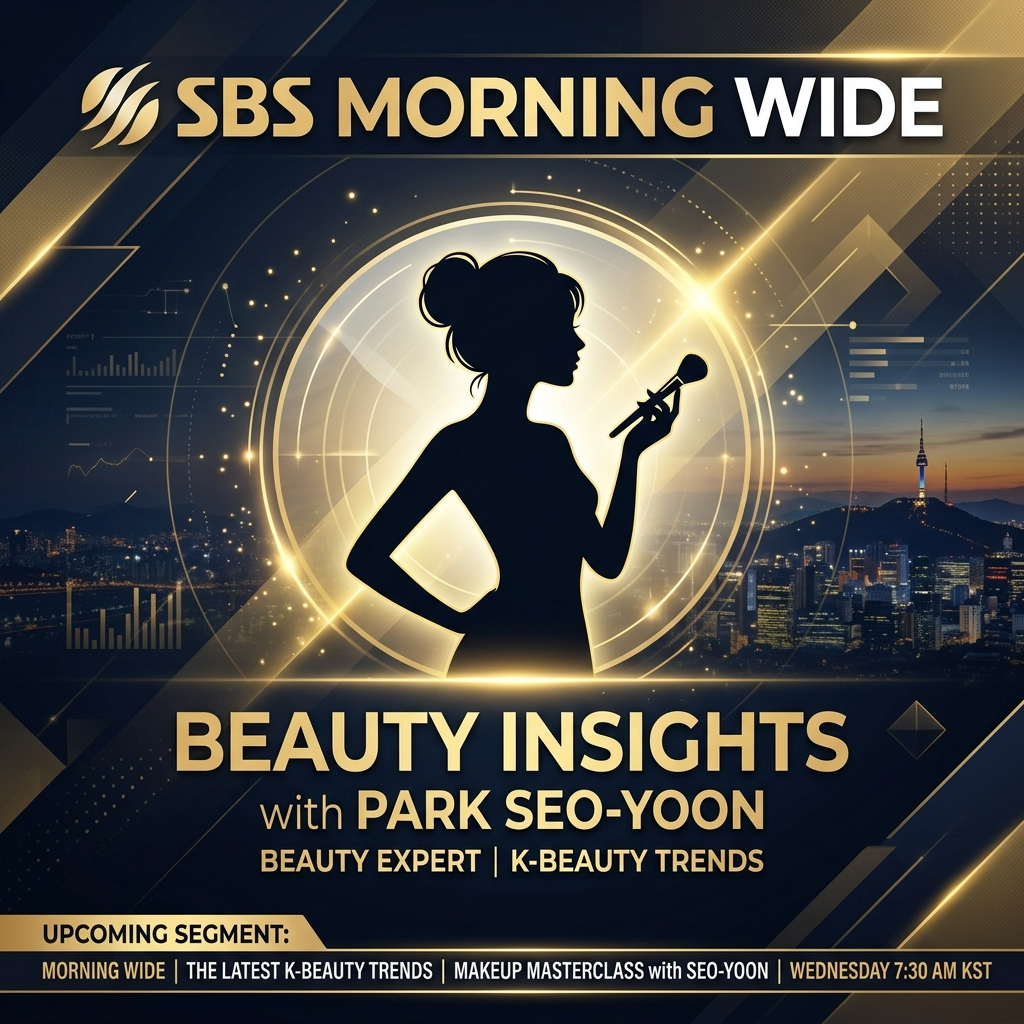
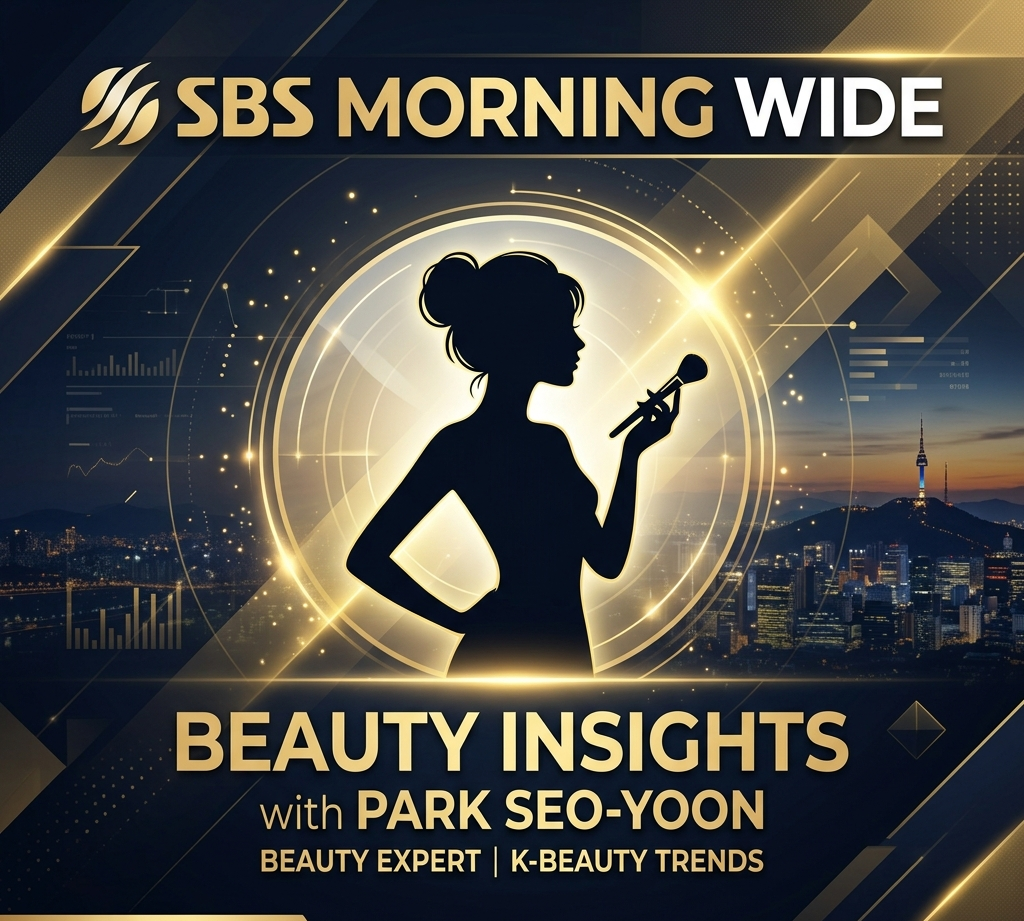
feat(ceo): update activities content, support multiple urls, and crop sbs_morning image

diff --git a/src/components/CeoResumeClient.tsx b/src/components/CeoResumeClient.tsx
@@ -53,7 +53,7 @@ export default function CeoResumeClient({ dict }: { dict: any }) {
                           <span className="material-symbols-outlined text-xl">smart_display</span>
                           {sns.title}
                         </h4>
-                        <p className="font-body-sm text-sm text-on-surface-variant">{sns.desc}</p>
+                        <p className="font-body-sm text-sm text-on-surface-variant whitespace-pre-wrap leading-relaxed">{sns.desc}</p>
                         {sns.url && (
                           <div className="mt-4 inline-flex items-center gap-1.5 px-3 py-1.5 rounded-full border border-primary/30 bg-primary/5 text-primary text-xs font-bold group-hover:bg-primary group-hover:text-background transition-colors w-fit">
                             <span className="material-symbols-outlined text-[14px]">ads_click</span>
@@ -104,6 +104,16 @@ export default function CeoResumeClient({ dict }: { dict: any }) {
                         Click to View
                       </div>
                     )}
+                    {item.urls && (
+                      <div className="mt-4 flex flex-col gap-2 w-full z-10 relative">
+                        {item.urls.map((u: any, i: number) => (
+                          <a key={i} href={u.link} target="_blank" rel="noopener noreferrer" className="inline-flex items-center gap-1.5 px-3 py-2 rounded-lg border border-primary/20 bg-primary/5 text-primary text-xs hover:bg-primary hover:text-background transition-colors w-fit">
+                            <span className="material-symbols-outlined text-[14px]">ads_click</span>
+                            {u.label}
+                          </a>
+                        ))}
+                      </div>
+                    )}
                   </>
                 );
 
@@ -127,9 +137,16 @@ export default function CeoResumeClient({ dict }: { dict: any }) {
                 ) : (
                   <div 
                     key={idx} 
-                    className="glass-panel glow-box p-5 rounded-xl border border-primary/5 group"
+                    className="flex flex-col sm:flex-row items-center sm:items-stretch glass-panel glow-box p-0 rounded-xl border border-primary/5 group overflow-hidden"
                   >
-                    {content}
+                    {item.image && (
+                      <div className="w-full sm:w-1/3 aspect-video sm:aspect-auto sm:min-h-[140px] bg-surface-container relative overflow-hidden flex-shrink-0 border-b sm:border-b-0 sm:border-r border-primary/10">
+                        <img src={item.image} alt={item.title} className="absolute inset-0 w-full h-full object-cover opacity-60 mix-blend-luminosity" />
+                      </div>
+                    )}
+                    <div className="p-5 flex-1 flex flex-col justify-center">
+                      {content}
+                    </div>
                   </div>
                 );
               })}
